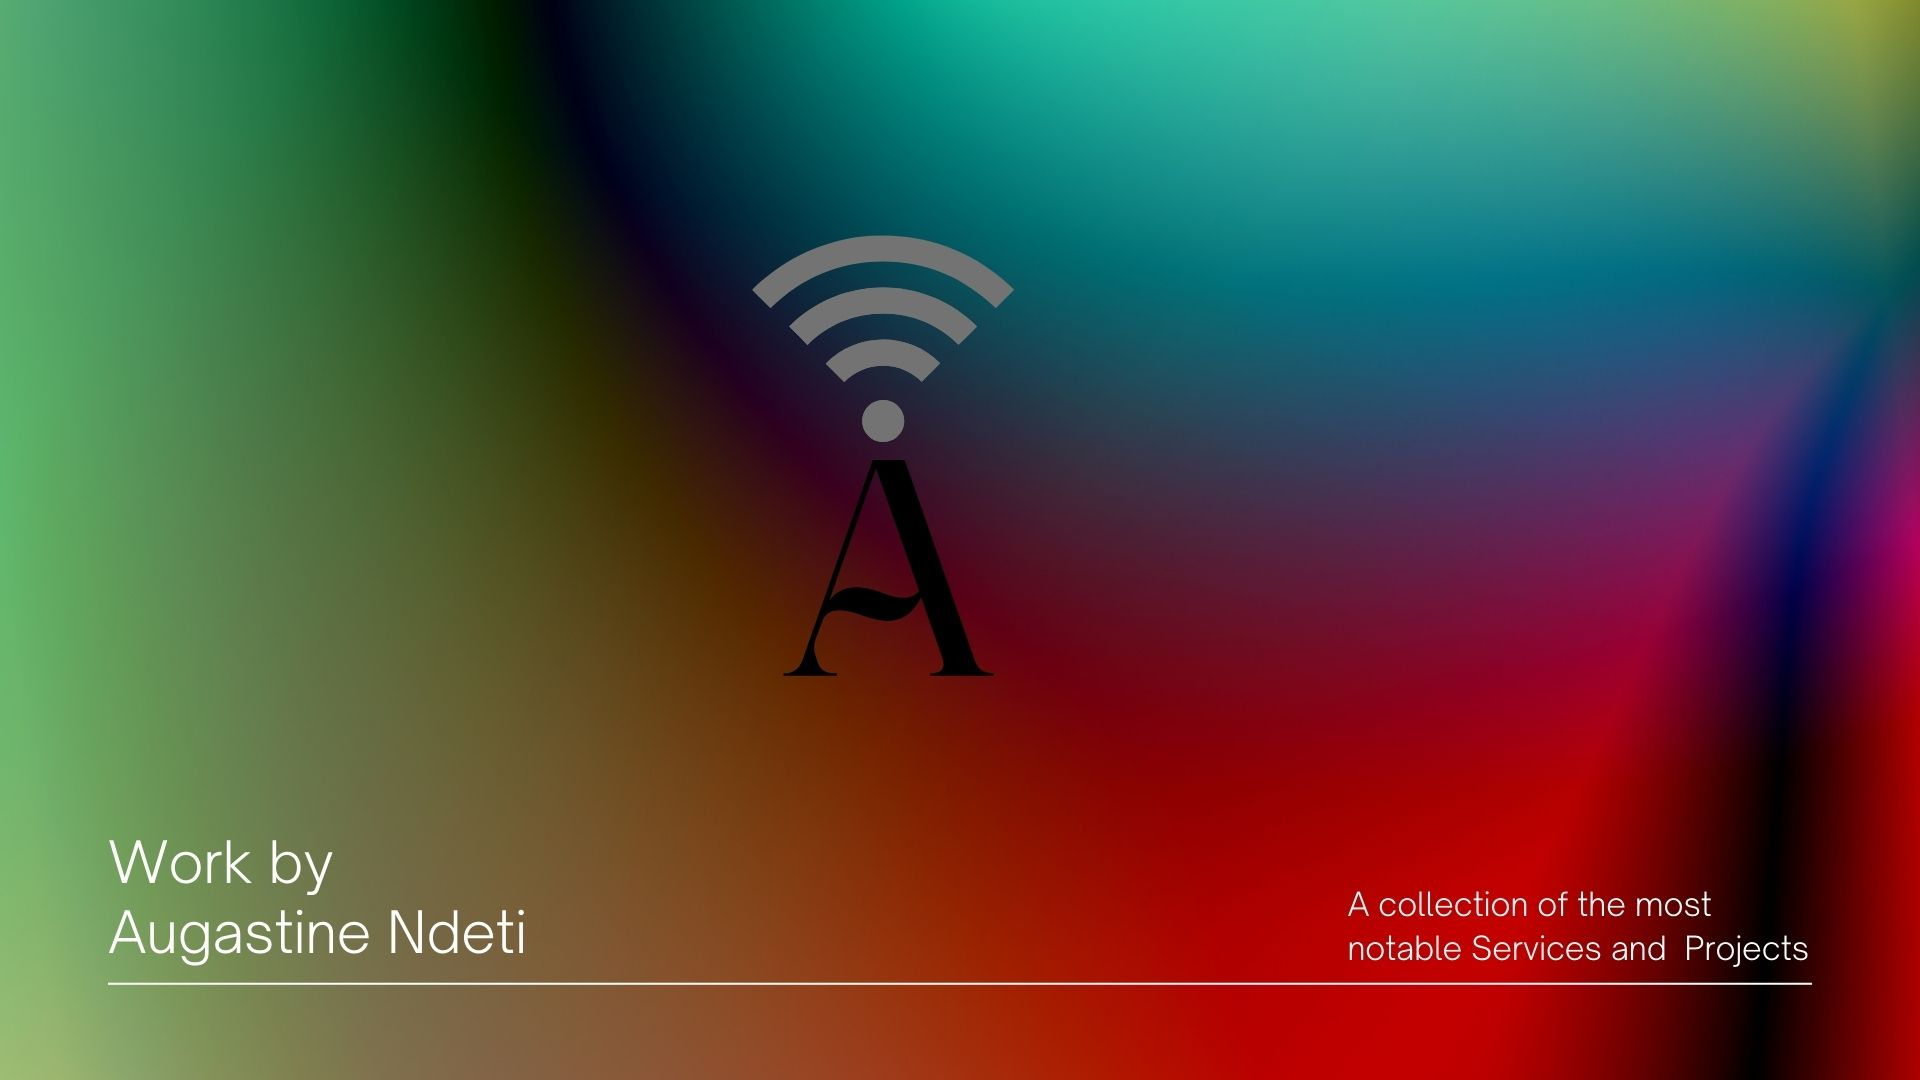
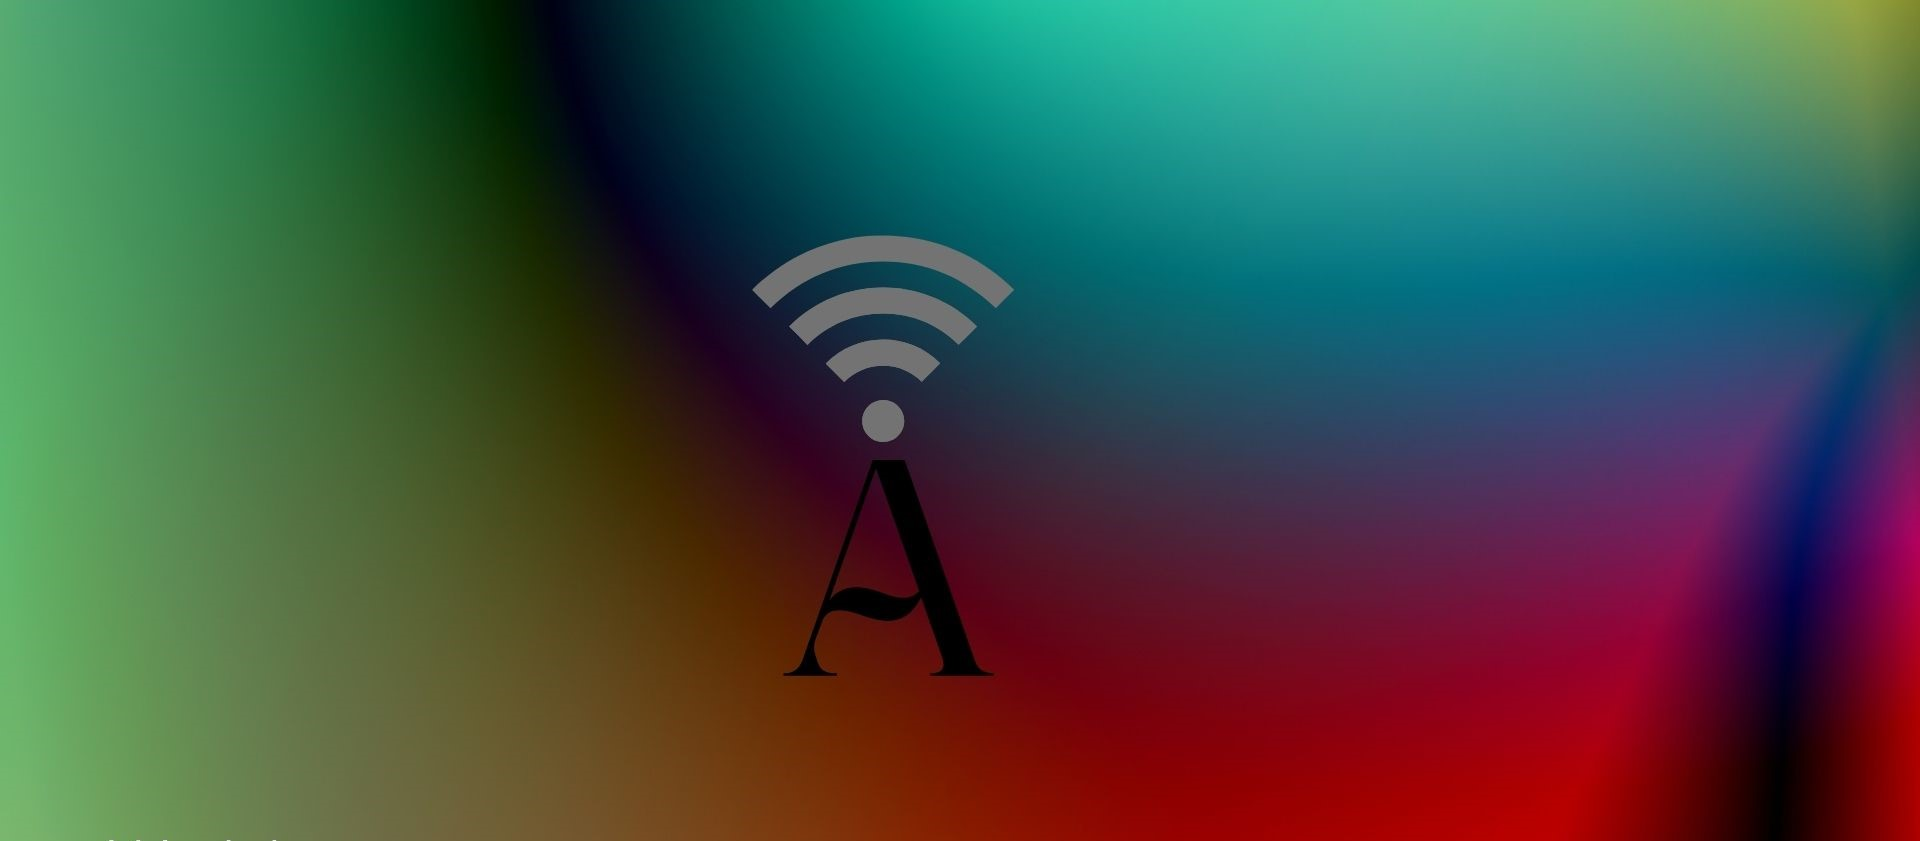
updated the home background to remove unnecessary parts.

diff --git a/index.html b/index.html
@@ -13,10 +13,10 @@
     <div id="header">
         <div class="container">
             <nav>
-                <img src="images/myLogo4.png" class="logo" alt="Augastine's logo">
+                <img src="images/MYlogo5.JPG" class="logo" alt="Augastine's logo"> <!-- mmm-->
                 <ul id="sidemenu">
                     <li> <a href="#header">Home</a> </li>
-                    <li> <a href="#about">About</a> </li>
+                    <li> <a href="#about">Summary</a> </li>
                     <li> <a href="#services">Services</a> </li>
                     <li> <a href="#My_Projects"> Work-Samples</a> </li>
                     <li> <a href="#contact">Contact</a> </li>
@@ -25,9 +25,9 @@
                 <i class="fa-solid fa-bars" onclick="openmenu()"> </i> <!--a Icon for menu-->
             </nav>
             <div class="header-text">
-                <p>IT & Business Solutions Architect</p>
-                <h1>Greetings! I am <span>Augastine Ndeti</span>, a competent professional <br> with expertise in
-                    Web Development, Data Science, Technical Support and Business Development.</h1>
+                <h1>IT & Business Solutions Architect</h1>
+                <p>Greetings! I am <span>Augastine Ndeti</span>, a competent professional <br> with expertise in
+                    Web Development, Data Science, Technical Support and Business Development.</p>
             </div>
         </div>
     </div>
@@ -224,7 +224,7 @@
 
                 <div>
                     <i class="fa-solid fa-magnifying-glass-chart"></i>
-                    <h2>Automation & Data Analytics</h2>
+                    <h2>Data Analysis and Automation</h2>
                     <p>
                         I develop Python applications for automation, data analysis, machine learning models, scraping
                         data, building APIs, and more. Handles coding projects end-to-end.
@@ -251,10 +251,11 @@
 
                 <div> <!-- service 4 starts with the div below-->
                     <i class="fa-solid fa-city"></i>
-                    <h2>Business Development</h2>
+                    <h2>Business Development Consultancy</h2>
                     <p>
-                        Growth focused. Specializes in platforms like LinkedIn to establish connections, identify leads
-                        through research and networking. Support website traffic growth.
+                        I'm Growth focused. Specializes in platforms like LinkedIn, Facebook, Twitter, Instagram, and
+                        TikTok to establish connections, identify leads
+                        through research and networking. Also I do help in website traffic growth.
                     </p> <!--description of the service 4-->
                     <a href="https://drive.google.com/file/d/1-qSgxDZXNZQ9WFPm1Vhqv7RCSikwhIUM/view?usp=sharing"
                         target="_blank"> Learn More </a>
@@ -513,14 +514,13 @@
                         <a href="https://www.linkedin.com/in/augastine-ndeti-290230175?lipi=urn%3Ali%3Apage%3Ad_flagship3_profile_view_base_contact_details%3BwZ6ut2hySHGJYPyJsjdf2A%3D%3D"
                             target="blank">
                             <i class="fa-brands fa-linkedin"></i> </a>
-                        <a href="https://twitter.com/AugastineNdeti" target="blank"><i
+                        <a href="https://twitter.com/mulu_tx" target="blank"><i
                                 class="fa-brands fa-square-x-twitter"></i></a>
-                        <a href="https://www.facebook.com/augastine.mulu.ndeti/" target="_blank"><i
+                        <a href="https://www.facebook.com/mulu.tx/" target="_blank"><i
                                 class="fa-brands fa-facebook"></i></a>
-                        <a href="https://www.instagram.com/ndetiaugastino/" target="_blank"><i
+                        <a href="https://www.instagram.com/mulu_bsc/" target="_blank"><i
                                 class="fa-brands fa-instagram"></i></a>
-                        <a href="https://github.com/Birkofniki" target="_blank"><i
-                                class="fa-brands fa-square-github"></i></a>
+                        <a href="https://github.com/" target="_blank"><i class="fa-brands fa-square-github"></i></a>
                         <a href="https://discordapp.com/users/961452033288843284" target="_blank"><i
                                 class="fa-brands fa-discord"></i> </a>
                         <a href="https://www.tiktok.com/@mr.bytes10?is_from_webapp=1&sender_device=pc"
@@ -535,8 +535,7 @@
                             class="fa-solid fa-cloud-arrow-down"></i>Download my Resume/CV</a>
                             -->
                     <a href="https://wa.me/+254742125032" target="_blank" class="bn5">
-                        <i class="fa-brands fa-square-whatsapp"></i> Chat Me for Opportunities/Projects
-                    </a>
+                        <i class="fa-brands fa-square-whatsapp"></i> Click to chat me on WhatsApp </a>
                     <!-- Replaced my CV here-->
                 </div>
 

diff --git a/style.css b/style.css
@@ -30,15 +30,18 @@ nav{
     align-items: center;
     justify-content:space-between;
     flex-wrap: wrap;
-
+     /* margin-left: 240px; ,,,to move it towards the center*/
 }
 .logo{
-    width: 140px;
+    width: 50px;
+    height: 00px;
+    object-fit: cover;
 }
 nav ul li{
     display: inline-block; 
    list-style: none;
    margin: 10px 20px;
+   align-items: center;
 
 }
 nav ul li a{
@@ -66,20 +69,21 @@ width: 100%;
    margin-top: 15%;
    font-size: 30px; 
 }
-.header-text p{
-    font-size: 40px;
-    margin-top: 20px;
-    font-weight:700px;
-    color: #19b4c2;
-    margin-top: 5%;
-    font-family: Impact, Haettenschweiler, 'Arial Narrow Bold', sans-serif;
-}
 .header-text h1{
     font-size: 40px;
     margin-top: 20px;
+    font-weight:700;
+    color: #1ccfa5;
+    margin-top: 5%;
+    font-family: Haettenschweiler, 'Arial Narrow Bold', sans-serif;
+    align-items: center;
 }
-.header-text h1 span{
-color: #19b4c2;
+.header-text p{
+    font-size: 40px;
+    margin-top: 20px;
+}
+.header-text p span{
+color: #1ccfa5;
 }
 /*....about............*/
 #about{
@@ -110,6 +114,10 @@ color: #19b4c2;
 .tab-titles{
     display: flex;
     margin: 20px 0 20px;
+    color: #1ccfa5;
+    font-weight: 700;
+    background-color: black;
+    font-family:'Times New Roman', Times, serif, monospace;
 }
 .tab-links{
     margin-right: 50px;
@@ -117,6 +125,7 @@ color: #19b4c2;
     font-weight: 500;
     cursor:pointer;
     position: relative;
+    background-color: rgb(61, 53, 53);
 
 }
 .tab-links::after{
@@ -359,7 +368,7 @@ transform: scale(1.1);
   padding: 0.6em 2em;
   border: none;
   outline: none;
-  color: rgb(255, 255, 255);
+  color: rgb(26, 24, 24);
   background: #10d9c8;
   cursor: pointer;
   position: relative;
@@ -399,6 +408,10 @@ transform: scale(1.1);
     font-size: 30;
     font-style:initial;
     color: rgba(27, 44, 27, 0.966);
+    
+}
+.bn5 a{
+text-decoration:double;
 }
 
 @keyframes glowingbn5 {
